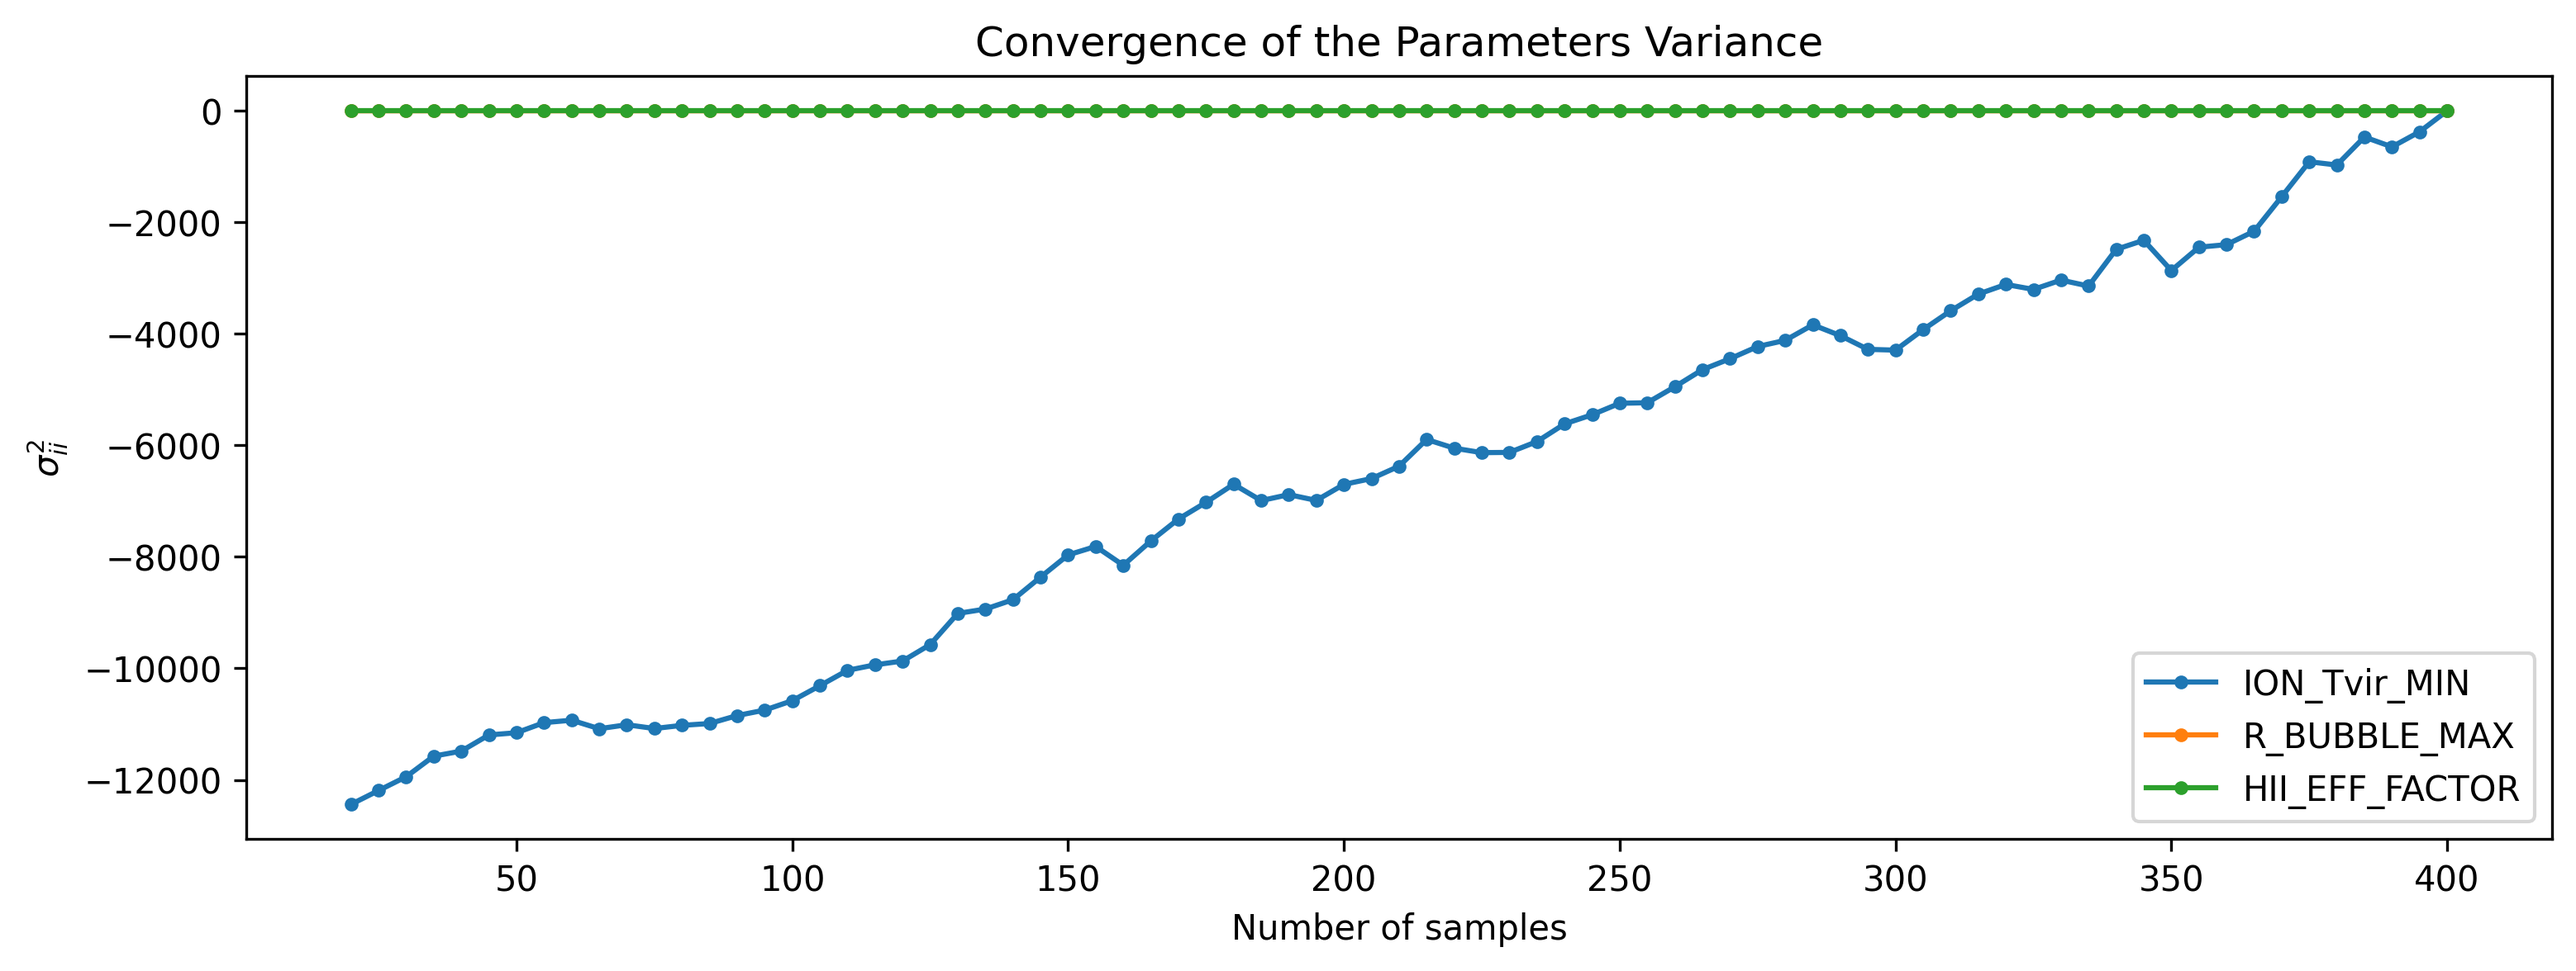
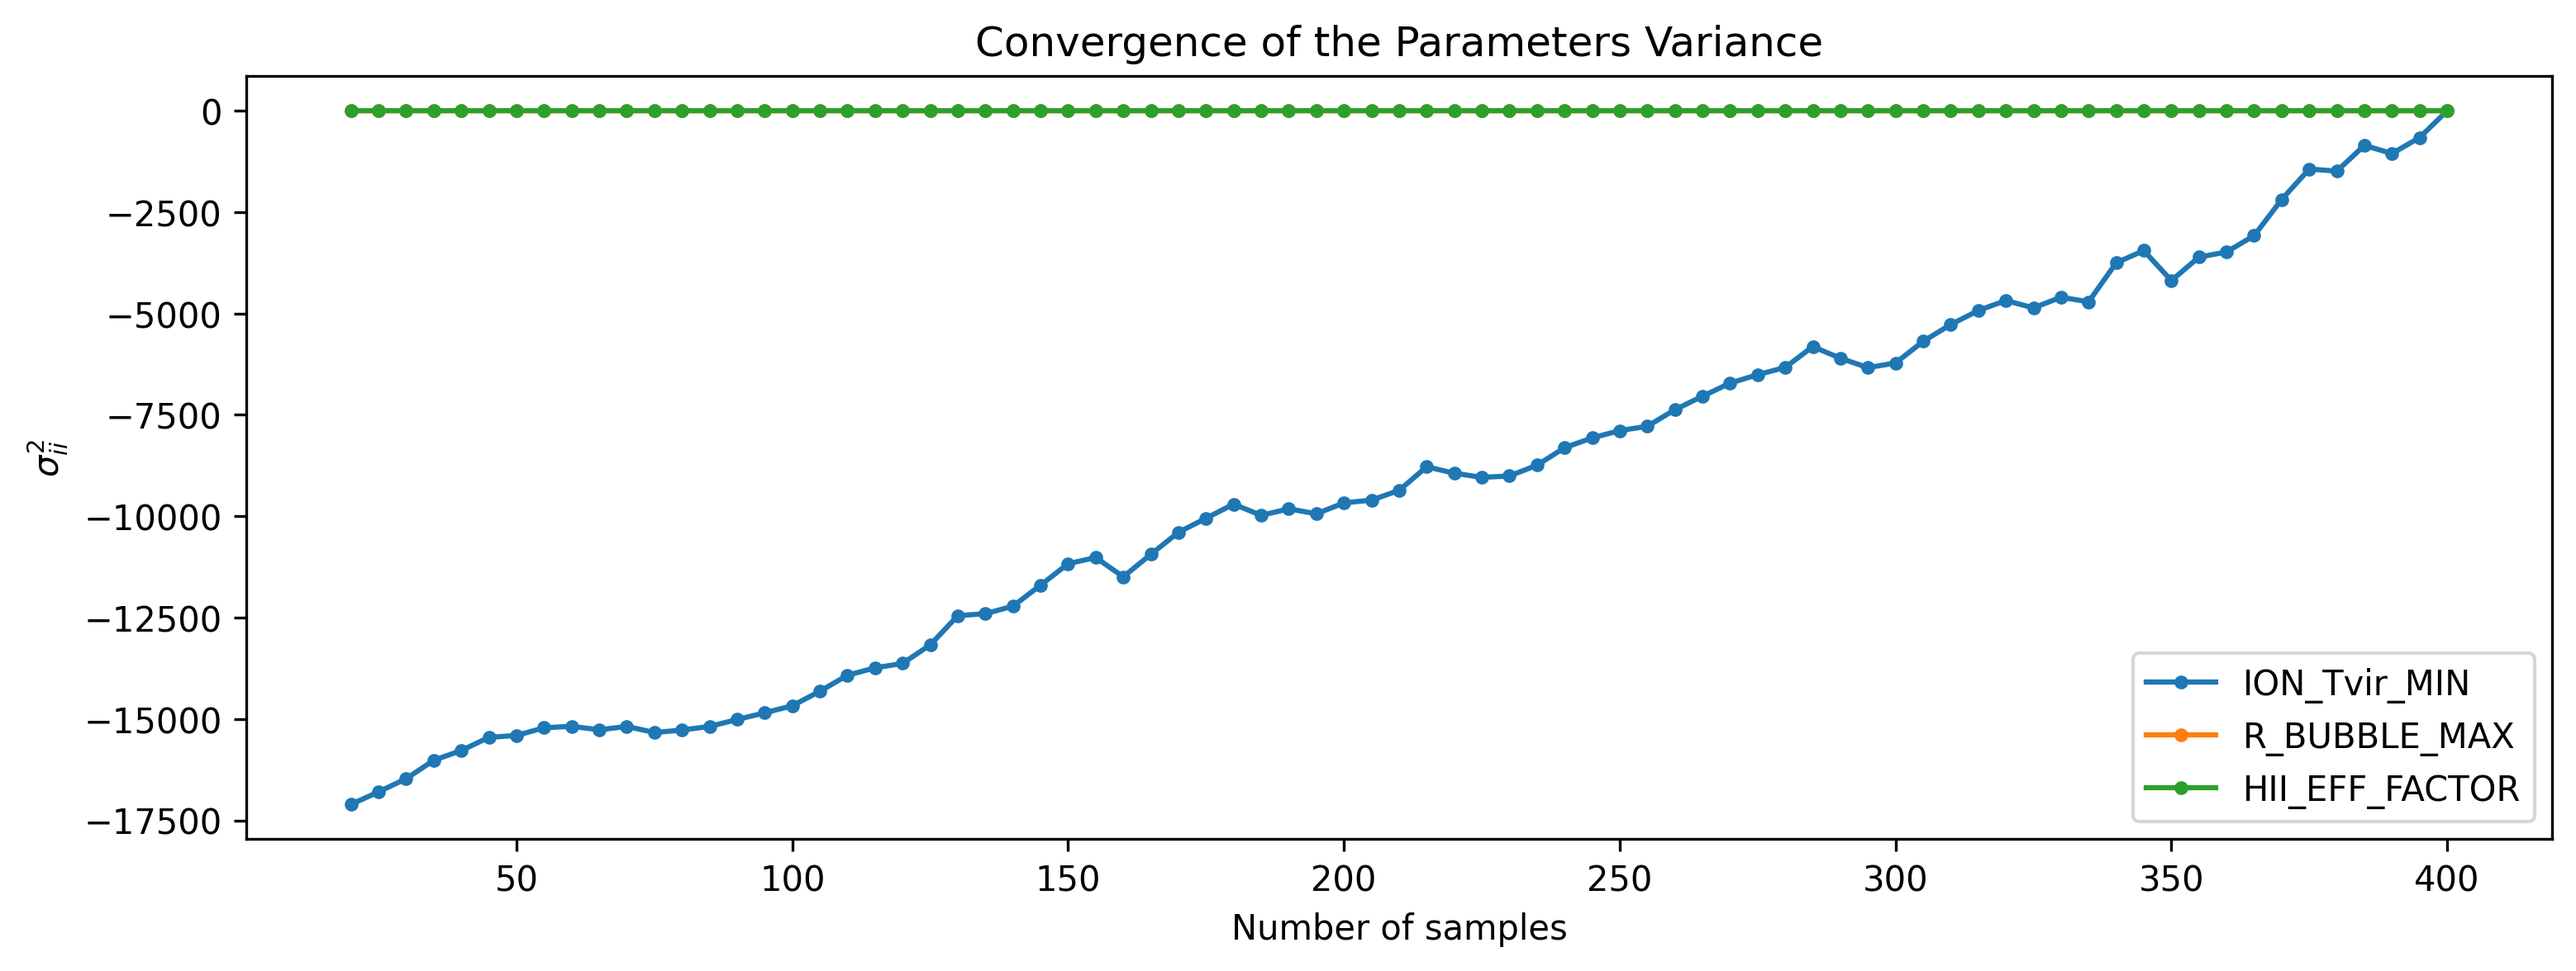
Reducing channel binning after passing through tools21cm

diff --git a/stats.py b/stats.py
@@ -94,7 +94,7 @@ box_length_los = (cdists.max()-cdists.min()).value
 box_length_list = [box_length, box_length, box_length_los]
 
 # statistic params
-statname = 'smt_redmapsAA4'
+statname = 'smt_redmaps100'
 nbins = 10  # number of k-bins for the spherical ps
 
 # MAPS grid parameters
@@ -120,7 +120,7 @@ ell = np.array([np.mean(lgrid[bindex==i]) for i in range(1, nbins+1)]) # avg ell
 
 
 # SKA obs parameters
-obs_time = 1000.     # total observation hours
+obs_time = 100.     # total observation hours
 int_time = 10.       # seconds
 total_int_time = 6.  # hours per day
 declination = -30.0  # declination of the field in degrees
@@ -172,9 +172,9 @@ for fname in files:
             # compute your statistic from the data
             # clean data
 
-            data = t2c.subtract_mean_signal(data_, los_axis=2) # subtracting the mean of the data
+            data_ = t2c.subtract_mean_signal(data_, los_axis=2) # subtracting the mean of the data
 
-            maps_clean[i, :, :, :] = comp_maps(data, bindex, dth=dtheta, lbin=nbins, nfreq=nfreq, area=Omega, nthreads=njobs) * (ell[:, None, None] * (ell[:, None, None] +1.)/2./np.pi)
+            maps_clean[i, :, :, :] = comp_maps(data_, bindex, dth=dtheta, lbin=nbins, nfreq=nfreq, area=Omega, nthreads=njobs) * (ell[:, None, None] * (ell[:, None, None] +1.)/2./np.pi)
             
             """
             plt.imshow(maps_res[1, :, :] , origin='lower', interpolation=None)
@@ -195,27 +195,35 @@ for fname in files:
                 # generate SKA AA* noise
                 noise_lc = t2c.noise_lightcone(
                     ncells=box_dim,
-                    zs=zz,
+                    zs=redshifts,
                     obs_time=obs_time,
                     total_int_time=total_int_time,
                     int_time=int_time,
                     declination=declination,
-                    subarray_type="AA4",
+                    subarray_type="AAstar",
                     boxsize=box_length,
                     verbose=False,
-                    save_uvmap='uvmap_AA4.h5',  # save uv coverage to re-use for each realisation
+                    save_uvmap='uvmap_AAstar.h5',  # save uv coverage to re-use for each realisation
                     n_jobs=njobs,  # Time period of recording the data in seconds.
                     checkpoint=16,  # The code write data after checkpoint number of calculations.
                 )  # third axis is line of sight
                 # observation = cosmological signal + noise
                 #dt_obs = noise_lc + data
 
+                # reducing the data volume along freq direction
+                noise_lc_ = np.array([np.mean(noise_lc[:,:,i:i+red_factor], axis=2) for i in range(0,nfreq_full,red_factor)])
+                noise_lc_ = np.moveaxis(noise_lc_, 0, 2)
+
                 dt_obs = t2c.smooth_lightcone(
                     lightcone=noise_lc + data, #t2c.subtract_mean_signal(data, los_axis=2),  # Data cube that is to be smoothed
-                    z_array=zz,  # Redshifts along the lightcone
+                    z_array=redshifts,  # Redshifts along the lightcone
                     box_size_mpc=box_length,  # Box size in cMpc
                     max_baseline=bmax,     # Maximum baseline of the telescope
                 )[0]
+
+                # reducing the data volume along freq direction
+                dt_obs_ = np.array([np.mean(dt_obs[:,:,i:i+red_factor], axis=2) for i in range(0,nfreq_full,red_factor)])
+                dt_obs_ = np.moveaxis(dt_obs_, 0, 2)
                 
                 # noisy data
                 """
@@ -231,8 +239,8 @@ for fname in files:
                     box_dims=box_length_list
                 )
                 """
-                maps_obs[i, :, :, :] = comp_maps(dt_obs, bindex, dth=dtheta, lbin=nbins, nfreq=nfreq, area=Omega, nthreads=njobs) * (ell[:, None, None] * (ell[:, None, None] +1.)/2./np.pi)
-                maps_noise[i, :, :, :] = comp_maps(noise_lc, bindex, dth=dtheta, lbin=nbins, nfreq=nfreq, area=Omega, nthreads=njobs) * (ell[:, None, None] * (ell[:, None, None] +1.)/2./np.pi)
+                maps_obs[i, :, :, :] = comp_maps(dt_obs_, bindex, dth=dtheta, lbin=nbins, nfreq=nfreq, area=Omega, nthreads=njobs) * (ell[:, None, None] * (ell[:, None, None] +1.)/2./np.pi)
+                maps_noise[i, :, :, :] = comp_maps(noise_lc_, bindex, dth=dtheta, lbin=nbins, nfreq=nfreq, area=Omega, nthreads=njobs) * (ell[:, None, None] * (ell[:, None, None] +1.)/2./np.pi)
 
         with h5py.File(fname, 'r+') as f:
             # Remove existing datasets if they exist
